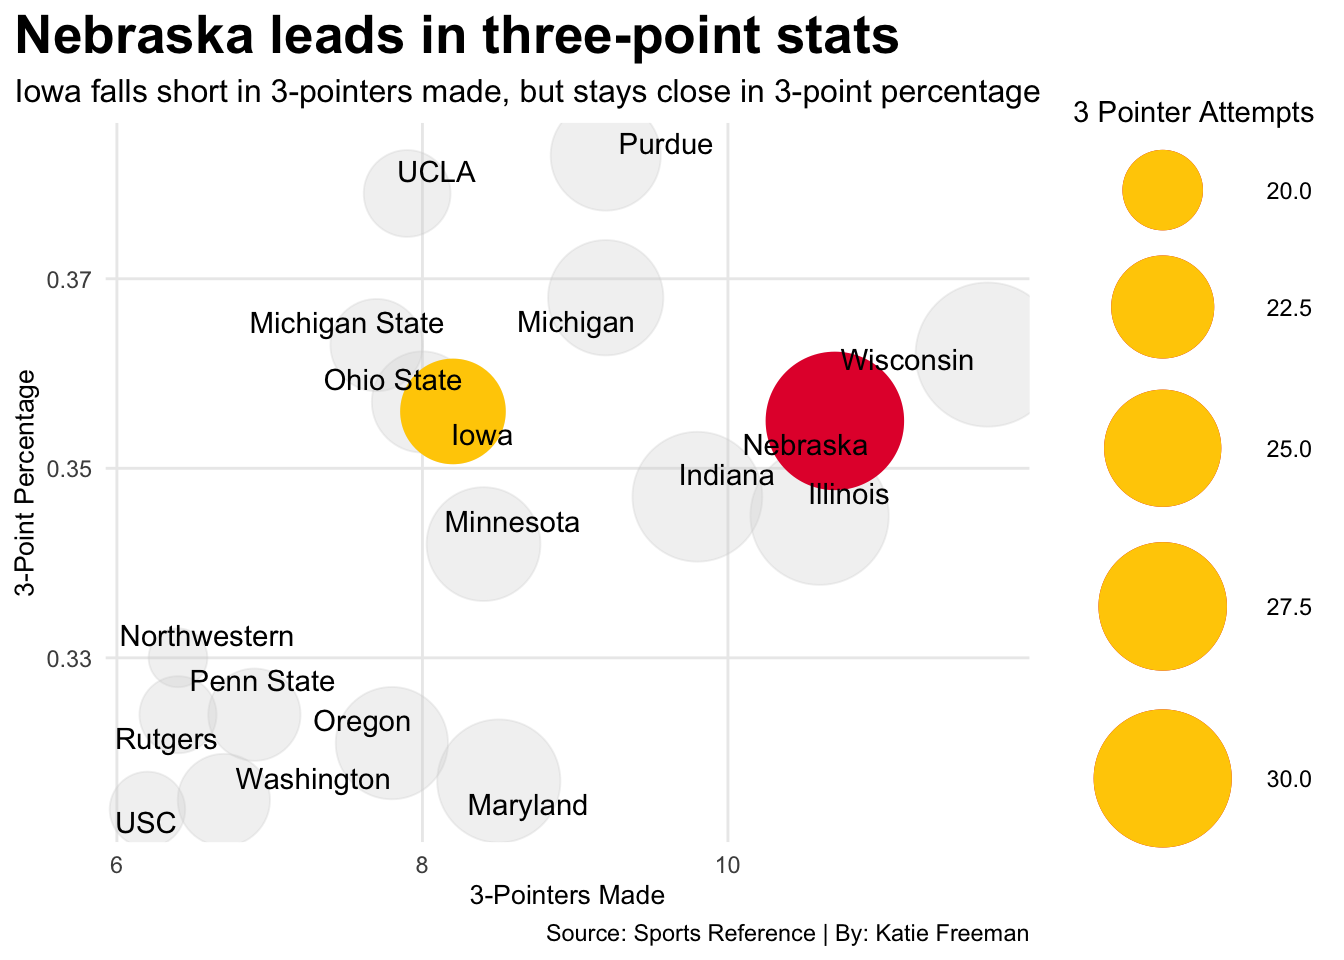
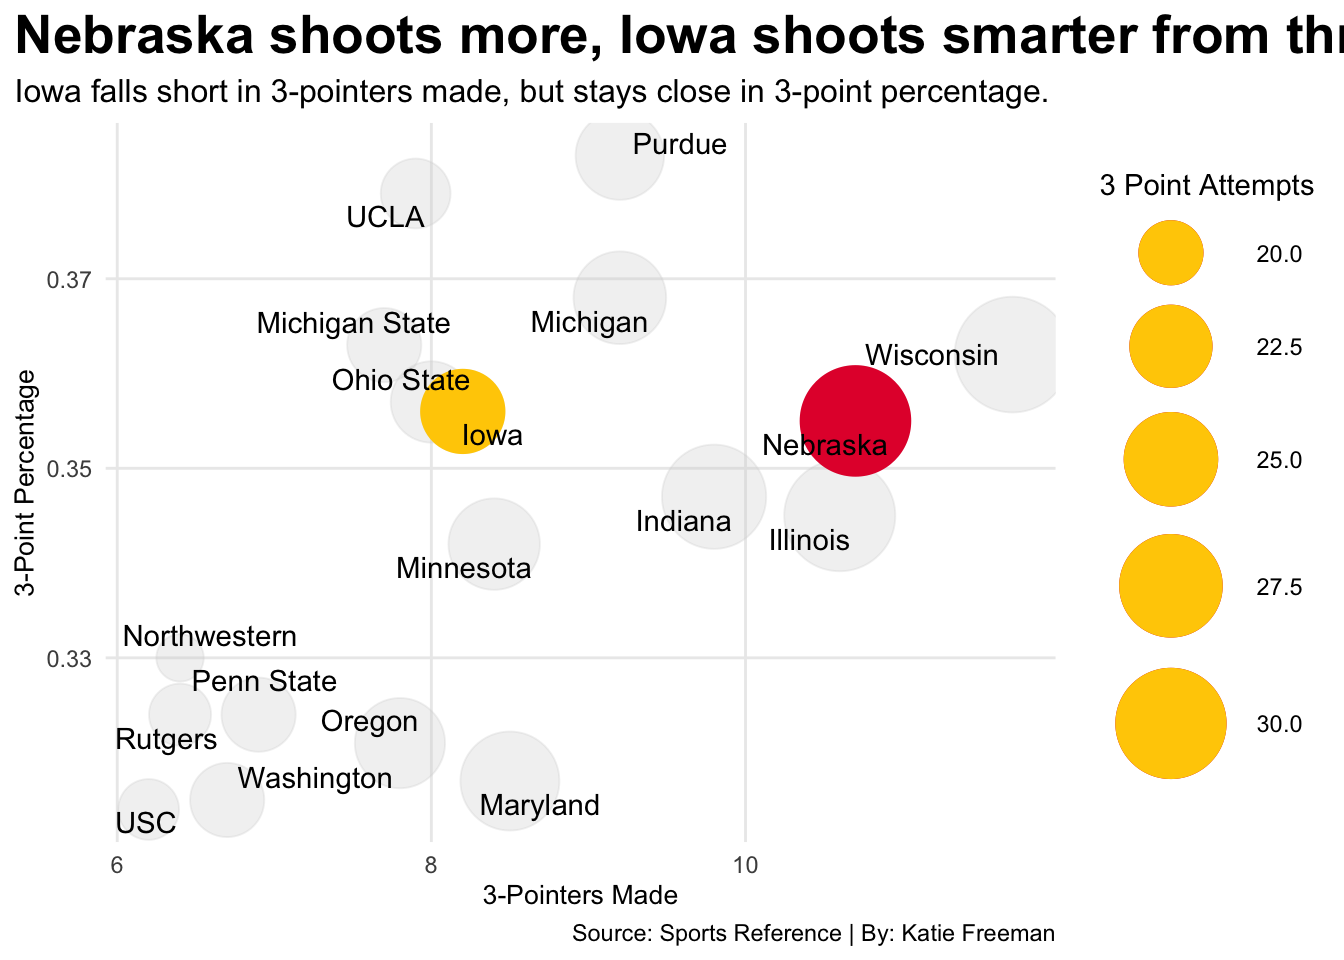
final updates to blog

diff --git a/posts/nebraska-iowa-mens-basketball/index.html b/posts/nebraska-iowa-mens-basketball/index.html
@@ -9,7 +9,7 @@
 <meta name="author" content="Katie Freeman">
 <meta name="dcterms.date" content="2026-04-27">
 
-<title>Huskers vs Hawkeyes: Who Was Really Better in the 2025-2026 Basketball Season – Katie’s Sports Blog</title>
+<title>Huskers vs Hawkeyes: Who Was Really Better in the 2025-2026 Basketball Season? – Katie’s Sports Blog</title>
 <style>
 /* Default styles provided by pandoc.
 ** See https://pandoc.org/MANUAL.html#variables-for-html for config info.
@@ -317,7 +317,7 @@ pre > code.sourceCode > span > a:first-child::before { text-decoration: underlin
 <header id="title-block-header" class="quarto-title-block default page-columns page-full">
   <div class="quarto-title-banner page-columns page-full">
     <div class="quarto-title column-body">
-      <h1 class="title">Huskers vs Hawkeyes: Who Was Really Better in the 2025-2026 Basketball Season</h1>
+      <h1 class="title">Huskers vs Hawkeyes: Who Was Really Better in the 2025-2026 Basketball Season?</h1>
                                 <div class="quarto-categories">
                 <div class="quarto-category">bigten</div>
                 <div class="quarto-category">basketball</div>
@@ -371,7 +371,7 @@ pre > code.sourceCode > span > a:first-child::before { text-decoration: underlin
 </div>
 <p>Comparing the rivalry between Nebraska and Iowa in the 2025-2026 basketball season.</p>
 <p>On paper, Nebraska looked like the stronger team. Nebraska ended the season 28-7, while Iowa finished 24-13. The Huskers held the better record, a higher national ranking and one of the strongest resumes in the Big Ten.</p>
-<p>Although, records don’t always tell you the full story. To understand how these teams actually performed, we need to go beyond wins and losses and examine how they compare across key metrics within the conference. So let’s take a closer look at some data compared to other Big Ten teams and see where Nebraska and Iowa really stand and who was truly better.</p>
+<p>Although, records don’t always tell the full story. To understand how these teams actually performed, we need to go beyond wins and losses and examine how they compare across key metrics within the conference. So let’s take a closer look at some data compared to other Big Ten teams and see where Nebraska and Iowa really stand and who was truly better.</p>
 <div class="cell">
 <details class="code-fold">
 <summary>Code</summary>
@@ -392,8 +392,8 @@ pre > code.sourceCode > span > a:first-child::before { text-decoration: underlin
 <span id="cb2-15"><a href="#cb2-15" aria-hidden="true" tabindex="-1"></a>  <span class="fu">labs</span>(</span>
 <span id="cb2-16"><a href="#cb2-16" aria-hidden="true" tabindex="-1"></a>    <span class="at">x=</span><span class="st">"Points Per Game"</span>, </span>
 <span id="cb2-17"><a href="#cb2-17" aria-hidden="true" tabindex="-1"></a>    <span class="at">y=</span><span class="st">"Opponents Points Per Game"</span>, </span>
-<span id="cb2-18"><a href="#cb2-18" aria-hidden="true" tabindex="-1"></a>    <span class="at">title=</span><span class="st">"Below the Big Ten, but close together"</span>, </span>
-<span id="cb2-19"><a href="#cb2-19" aria-hidden="true" tabindex="-1"></a>    <span class="at">subtitle=</span><span class="st">"Nebraska has a smaller lead against Iowa in their points per game."</span>, </span>
+<span id="cb2-18"><a href="#cb2-18" aria-hidden="true" tabindex="-1"></a>    <span class="at">title=</span><span class="st">"Nearly identical in scoring"</span>, </span>
+<span id="cb2-19"><a href="#cb2-19" aria-hidden="true" tabindex="-1"></a>    <span class="at">subtitle=</span><span class="st">"Nebraska holds a slight edge, but both teams perform statistically close in points per game."</span>, </span>
 <span id="cb2-20"><a href="#cb2-20" aria-hidden="true" tabindex="-1"></a>    <span class="at">caption=</span><span class="st">"Source: SportsDataVerse | By: Katie Freeman"</span></span>
 <span id="cb2-21"><a href="#cb2-21" aria-hidden="true" tabindex="-1"></a>    ) <span class="sc">+</span></span>
 <span id="cb2-22"><a href="#cb2-22" aria-hidden="true" tabindex="-1"></a>  <span class="fu">theme_minimal</span>() <span class="sc">+</span> </span>
@@ -469,8 +469,8 @@ pre > code.sourceCode > span > a:first-child::before { text-decoration: underlin
 <span id="cb4-44"><a href="#cb4-44" aria-hidden="true" tabindex="-1"></a></span>
 <span id="cb4-45"><a href="#cb4-45" aria-hidden="true" tabindex="-1"></a>bar1 <span class="sc">+</span> bar2 <span class="sc">+</span> bar3 <span class="sc">+</span> bar4 <span class="sc">+</span></span>
 <span id="cb4-46"><a href="#cb4-46" aria-hidden="true" tabindex="-1"></a>  <span class="fu">plot_annotation</span>(</span>
-<span id="cb4-47"><a href="#cb4-47" aria-hidden="true" tabindex="-1"></a>    <span class="at">title =</span> <span class="st">"FG%, 3P%, rebounds and FT% comparison"</span>,</span>
-<span id="cb4-48"><a href="#cb4-48" aria-hidden="true" tabindex="-1"></a>    <span class="at">subtitle =</span> <span class="st">"Four major categoires, how do the two teams compare?"</span>,</span>
+<span id="cb4-47"><a href="#cb4-47" aria-hidden="true" tabindex="-1"></a>    <span class="at">title =</span> <span class="st">"Where Nebraska and Iowa separate in four key metrics"</span>,</span>
+<span id="cb4-48"><a href="#cb4-48" aria-hidden="true" tabindex="-1"></a>    <span class="at">subtitle =</span> <span class="st">"Field goal %, three-point %, rebounds and free throw % across the Big Ten."</span>,</span>
 <span id="cb4-49"><a href="#cb4-49" aria-hidden="true" tabindex="-1"></a>    <span class="at">caption =</span> <span class="st">"Source: Sports Reference | By: Katie Freeman"</span></span>
 <span id="cb4-50"><a href="#cb4-50" aria-hidden="true" tabindex="-1"></a>  ) <span class="sc">&amp;</span> </span>
 <span id="cb4-51"><a href="#cb4-51" aria-hidden="true" tabindex="-1"></a>  <span class="fu">theme</span>(</span>
@@ -510,9 +510,9 @@ pre > code.sourceCode > span > a:first-child::before { text-decoration: underlin
 <span id="cb5-12"><a href="#cb5-12" aria-hidden="true" tabindex="-1"></a>  <span class="fu">geom_point</span>(</span>
 <span id="cb5-13"><a href="#cb5-13" aria-hidden="true" tabindex="-1"></a>    <span class="at">data=</span>ia, </span>
 <span id="cb5-14"><a href="#cb5-14" aria-hidden="true" tabindex="-1"></a>    <span class="fu">aes</span>(<span class="at">x=</span><span class="st">`</span><span class="at">3P</span><span class="st">`</span>, <span class="at">y=</span><span class="st">`</span><span class="at">3P%</span><span class="st">`</span>, <span class="at">size=</span><span class="st">`</span><span class="at">3PA</span><span class="st">`</span>),</span>
-<span id="cb5-15"><a href="#cb5-15" aria-hidden="true" tabindex="-1"></a>    <span class="at">color=</span><span class="st">"#FFCD00"</span></span>
+<span id="cb5-15"><a href="#cb5-15" aria-hidden="true" tabindex="-1"></a>    <span class="at">color=</span><span class="st">"#FFCD00"</span>,</span>
 <span id="cb5-16"><a href="#cb5-16" aria-hidden="true" tabindex="-1"></a>  ) <span class="sc">+</span></span>
-<span id="cb5-17"><a href="#cb5-17" aria-hidden="true" tabindex="-1"></a>  <span class="fu">scale_size</span>(<span class="at">range =</span> <span class="fu">c</span>(<span class="dv">10</span>,<span class="dv">25</span>), <span class="at">name=</span><span class="st">"3 Pointer Attempts"</span>) <span class="sc">+</span></span>
+<span id="cb5-17"><a href="#cb5-17" aria-hidden="true" tabindex="-1"></a>  <span class="fu">scale_size</span>(<span class="at">range =</span> <span class="fu">c</span>(<span class="dv">8</span>,<span class="dv">20</span>), <span class="at">name=</span><span class="st">"3 Point Attempts"</span>) <span class="sc">+</span></span>
 <span id="cb5-18"><a href="#cb5-18" aria-hidden="true" tabindex="-1"></a>    <span class="fu">geom_text_repel</span>(</span>
 <span id="cb5-19"><a href="#cb5-19" aria-hidden="true" tabindex="-1"></a>      <span class="at">data=</span>bigten,</span>
 <span id="cb5-20"><a href="#cb5-20" aria-hidden="true" tabindex="-1"></a>      <span class="fu">aes</span>(<span class="at">x=</span><span class="st">`</span><span class="at">3P</span><span class="st">`</span>, <span class="at">y=</span><span class="st">`</span><span class="at">3P%</span><span class="st">`</span>, <span class="at">label=</span>School)</span>
@@ -520,8 +520,8 @@ pre > code.sourceCode > span > a:first-child::before { text-decoration: underlin
 <span id="cb5-22"><a href="#cb5-22" aria-hidden="true" tabindex="-1"></a><span class="fu">labs</span>(</span>
 <span id="cb5-23"><a href="#cb5-23" aria-hidden="true" tabindex="-1"></a>    <span class="at">x=</span><span class="st">"3-Pointers Made"</span>, </span>
 <span id="cb5-24"><a href="#cb5-24" aria-hidden="true" tabindex="-1"></a>    <span class="at">y=</span><span class="st">"3-Point Percentage"</span>, </span>
-<span id="cb5-25"><a href="#cb5-25" aria-hidden="true" tabindex="-1"></a>    <span class="at">title=</span><span class="st">"Nebraska leads in three-point stats"</span>, </span>
-<span id="cb5-26"><a href="#cb5-26" aria-hidden="true" tabindex="-1"></a>    <span class="at">subtitle=</span><span class="st">"Iowa falls short in 3-pointers made, but stays close in 3-point percentage"</span>, </span>
+<span id="cb5-25"><a href="#cb5-25" aria-hidden="true" tabindex="-1"></a>    <span class="at">title=</span><span class="st">"Nebraska shoots more, Iowa shoots smarter from three"</span>, </span>
+<span id="cb5-26"><a href="#cb5-26" aria-hidden="true" tabindex="-1"></a>    <span class="at">subtitle=</span><span class="st">"Iowa falls short in 3-pointers made, but stays close in 3-point percentage."</span>, </span>
 <span id="cb5-27"><a href="#cb5-27" aria-hidden="true" tabindex="-1"></a>    <span class="at">caption=</span><span class="st">"Source: Sports Reference | By: Katie Freeman"</span></span>
 <span id="cb5-28"><a href="#cb5-28" aria-hidden="true" tabindex="-1"></a>    ) <span class="sc">+</span></span>
 <span id="cb5-29"><a href="#cb5-29" aria-hidden="true" tabindex="-1"></a>  <span class="fu">theme_minimal</span>() <span class="sc">+</span> </span>

diff --git a/index.html b/index.html
@@ -373,7 +373,7 @@ window.Quarto = {
 
 <div class="quarto-listing quarto-listing-container-default" id="listing-listing">
 <div class="list quarto-listing-default">
-<div class="quarto-post image-right" data-index="0" data-categories="YmlndGVuJTJDYmFza2V0YmFsbCUyQ25lYnJhc2thJTJDaW93YQ==" data-listing-date-sort="1777266000000" data-listing-file-modified-sort="1777312319625" data-listing-date-modified-sort="NaN" data-listing-reading-time-sort="6" data-listing-word-count-sort="1140">
+<div class="quarto-post image-right" data-index="0" data-categories="YmlndGVuJTJDYmFza2V0YmFsbCUyQ25lYnJhc2thJTJDaW93YQ==" data-listing-date-sort="1777266000000" data-listing-file-modified-sort="1777323689211" data-listing-date-modified-sort="NaN" data-listing-reading-time-sort="6" data-listing-word-count-sort="1150">
 <div class="thumbnail"><a href="./posts/nebraska-iowa-mens-basketball/index.html" class="no-external">
 
 <img loading="lazy" src="./posts/nebraska-iowa-mens-basketball/image.png" class="thumbnail-image">
@@ -381,7 +381,7 @@ window.Quarto = {
 </a></div>
 <div class="body">
 <h3 class="no-anchor listing-title">
-<a href="./posts/nebraska-iowa-mens-basketball/index.html" class="no-external">Huskers vs Hawkeyes: Who Was Really Better in the 2025-2026 Basketball Season</a>
+<a href="./posts/nebraska-iowa-mens-basketball/index.html" class="no-external">Huskers vs Hawkeyes: Who Was Really Better in the 2025-2026 Basketball Season?</a>
 </h3>
 <div class="listing-categories">
 
